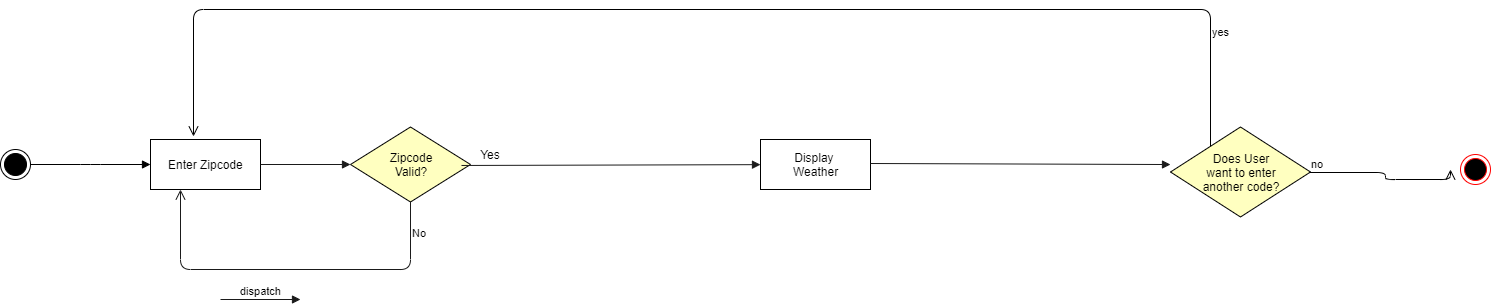
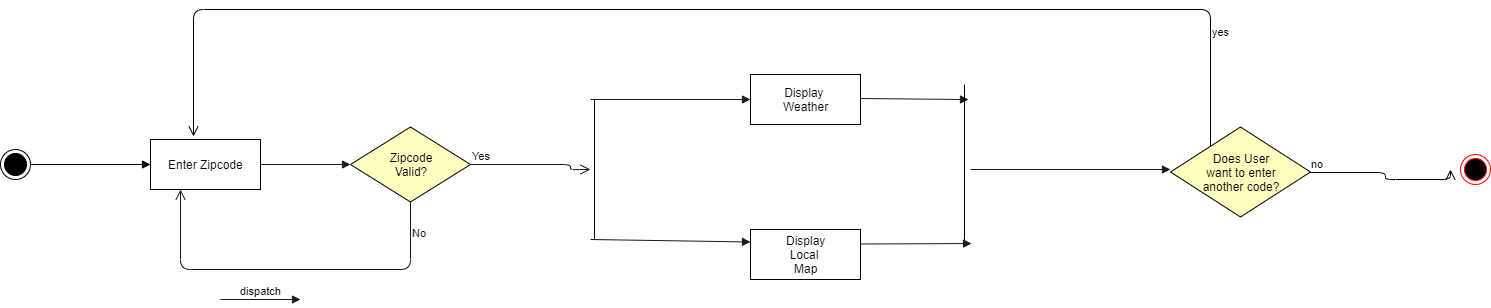
Add Sample and undo previous commits

diff --git a/Trials/Map_Sample.html b/Trials/Map_Sample.html
@@ -1,0 +1,13 @@
+<iframe
+  width="1000"
+  height="700"
+  frameborder="0" style="border:0"
+  src="https://www.google.com/maps/embed/v1/place?key=AIzaSyDNRmufQHfCRrlCbsx_n_VNoSSploKRB2c
+    &q=1825+Texas+Tech+Pkwy, Lubbock+TX, 79415" allowfullscreen>
+</iframe>
+<iframe
+  width="500"
+  height="700"
+  frameborder="0" style="border:0"
+  src= "http://www.openweathermap.org/data/2.5/weather?zip=79415,us&appid=b6907d289e10d714a6e88b30761fae22" >
+</iframe
